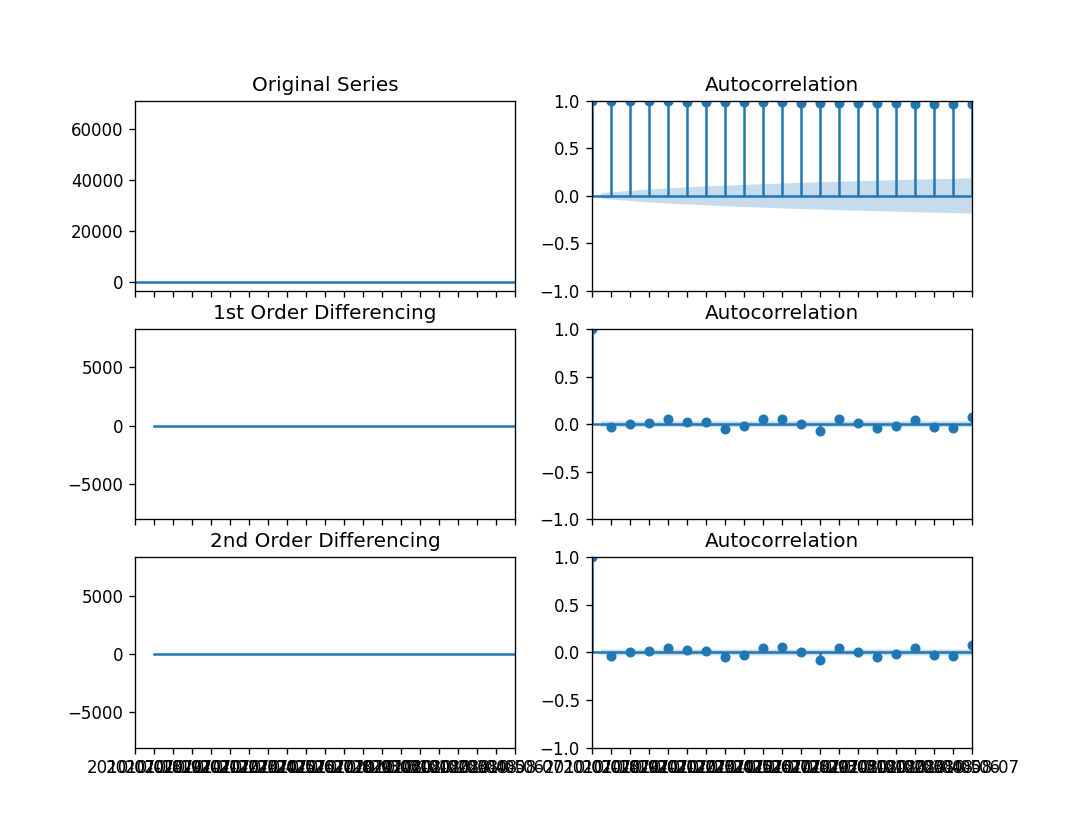
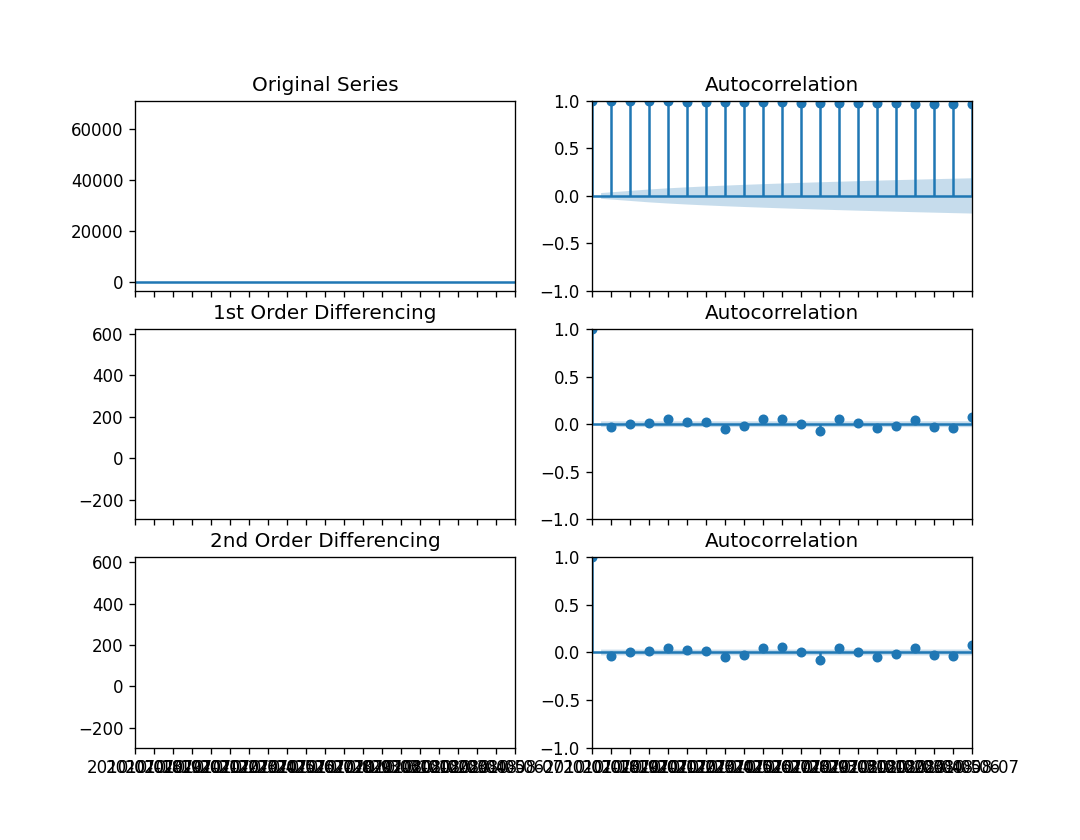
update

diff --git a/tsa.py b/tsa.py
@@ -4,6 +4,7 @@ from statsmodels.graphics.tsaplots import plot_acf, plot_pacf
 from statsmodels.tsa.statespace.sarimax import SARIMAX
 from statsmodels.tsa.stattools import  adfuller
 from statsmodels.tsa.arima.model import ARIMA,ARIMAResults
+from statsmodels.tsa.forecasting.theta import ThetaModelResults as teta
 from numpy import log
 
 
@@ -34,12 +35,12 @@ def differentiation(df, coin, feature):
     plot_acf(df[coin][feature].dropna(), ax=axes[0, 1])
 
     # 1st diff
-    axes[1, 0].plot(df[coin][feature].diff());
+    axes[1, 0].plot(df[coin].tail()[feature].diff());
     axes[1, 0].set_title('1st Order Differencing')
     plot_acf(df[coin][feature].diff().dropna(), ax=axes[1, 1])
 
     # 2nd diff
-    axes[2, 0].plot(df[coin][feature].diff());
+    axes[2, 0].plot(df[coin].tail()[feature].diff());
     axes[2, 0].set_title('2nd Order Differencing')
     plot_acf(df[coin][feature].diff().dropna(), ax=axes[2, 1])
     axes[0,1].set(xlim=(0,20))
@@ -51,7 +52,7 @@ def calcolo_ar(df, coin, feature):
     plt.rcParams.update({'figure.figsize': (9, 3), 'figure.dpi': 120})
     plt.clf()
     fig, axes = plt.subplots(1,2, sharex=False)
-    axes[0].plot(df[coin][feature].diff())
+    axes[0].plot(df[coin].tail(600)[feature].diff())
     axes[0].set_title('1st Differencing')
     axes[1].set(ylim=(0, 5))
     axes[1].set(xlim=(0, 20))
@@ -61,7 +62,7 @@ def calcolo_ar(df, coin, feature):
 
 
 def sarimax(df, coin, feature):
-    model = ARIMA(df[coin][feature], order=(1,1,0))
+    model = ARIMA(df[coin].tail(600)[feature], order=(1,1,0))
     model_fit = model.fit()
     print(model_fit.summary())
     with open('grafici_tsa' + '/arima.txt', 'w') as f:
@@ -82,8 +83,8 @@ def residui(model):
 
 def prediction_check(model):
     plt.clf()
-    #plt.plot(model.predict(dynamic=False))
     plt.plot(model.predict(dynamic=False))
+    #plt.plot(model.predict(dynamic=False))
     plt.title('Predict Vs Actual')
     plt.show()
 
@@ -92,7 +93,7 @@ def fc(train, test):
     model = SARIMAX(train, order=(1,1,0))
     fitted = model.fit()
 
-    fc, se, conf = fitted.forecast(15, alpha=0.05)
+    fc = fitted.forecast(15)
     fc_series = pd.Series(fc, index=test.index)
     lower_series = pd.Series(conf[:, 0], index=test.index)
     upper_series = pd.Series(conf[:, 1], index=test.index)

diff --git a/main_tsa.py b/main_tsa.py
@@ -28,8 +28,11 @@ tsa.adickeyfuller(df_list, 'ethereum', 'Close')
 tsa.adickeyfuller(df_list, 'dogecoin', 'Close')
 tsa.adickeyfuller(df_list, 'solana', 'Close')
 
+print(df_list['bitcoin'].tail(600)['Close'])
+
+
 # differenziazione della serie per calcolare parametro d
-# tsa.differentiation(df_list, 'bitcoin', 'Close')
+tsa.differentiation(df_list, 'bitcoin', 'Close')
 tsa.calcolo_ar(df_list, 'bitcoin', 'Close') #dal grafico sembrava necessario scegliere come ma
 # il valore 1, andando a vedere i risultati di ARIMA, è stato necessario toglierlo per ottenere
 # un modello migliore
@@ -40,8 +43,8 @@ tsa.calcolo_ar(df_list, 'bitcoin', 'Close') #dal grafico sembrava necessario sce
 model_fit = tsa.sarimax(df_list, 'bitcoin', 'Close')
 
 # plot dei residui
-residuals = tsa.residui(model_fit)
-tsa.prediction_check(model_fit)
+#residuals = tsa.residui(model_fit)
+#tsa.prediction_check(model_fit)
 
 train = df_list['bitcoin']['Close'][:85]
 test = df_list['bitcoin']['Close'][85:]

diff --git a/etl.py b/etl.py
@@ -13,6 +13,7 @@ def create_crypto_dict(df, coins):
     df_list = {}
     for elem in coins:
         df_list[elem] = (df.loc[df['Coin'] == elem])
+        #df_list[elem].reset_index(drop=True)
         df_list[elem] = df_list[elem].set_index('Date')
     return df_list
 
